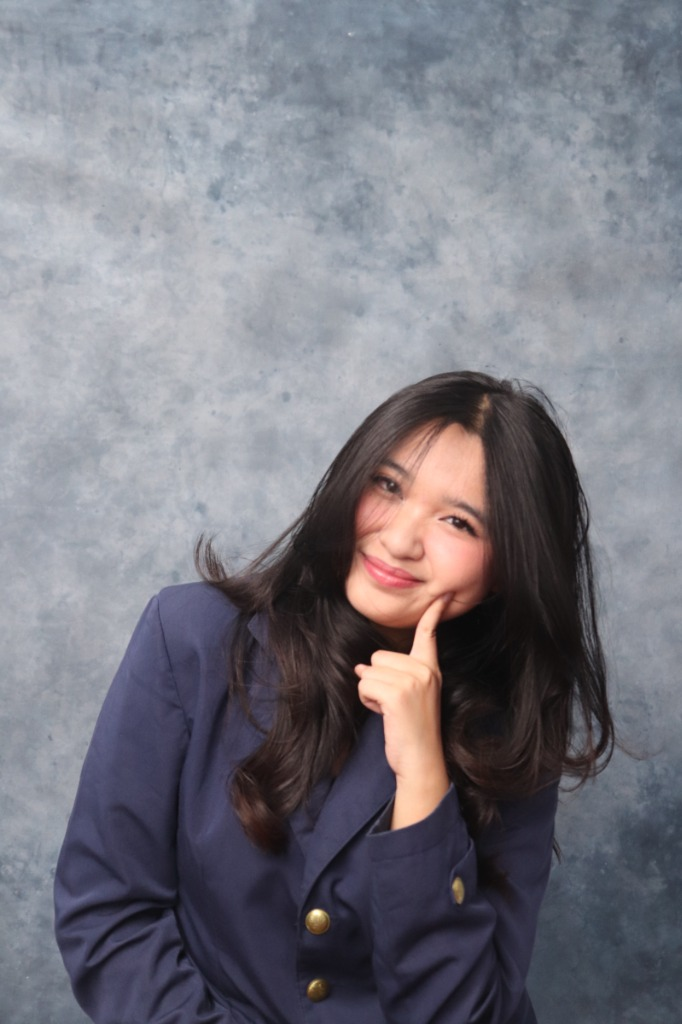
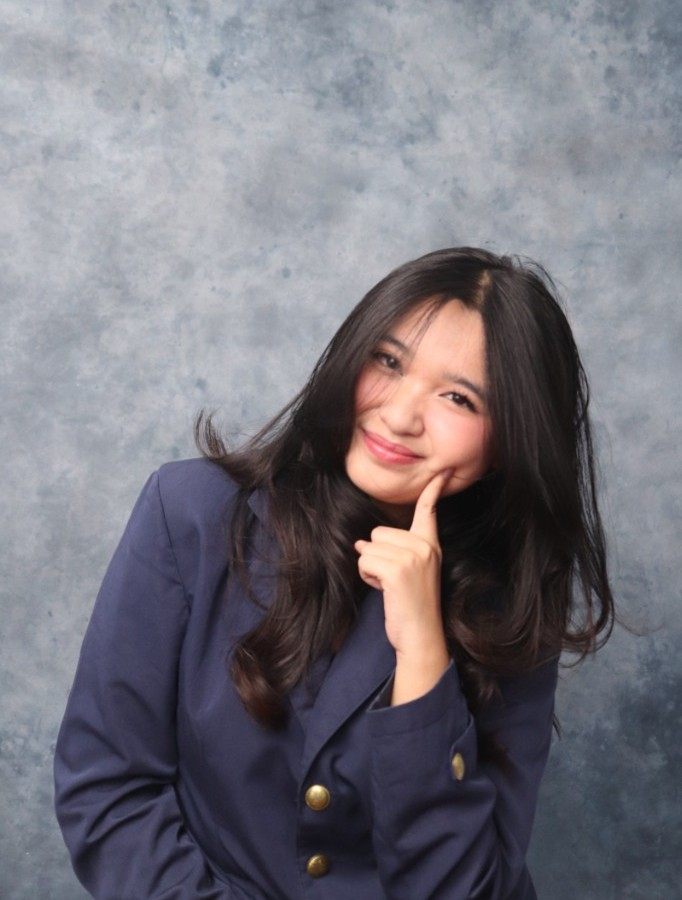
fix(profile): use user-cropped photos and center object-position

diff --git a/src/pages/Home.css b/src/pages/Home.css
@@ -183,7 +183,7 @@
   width: 100%;
   height: 100%;
   object-fit: cover;
-  object-position: center 20%;
+  object-position: center;
   display: block;
   pointer-events: none;
 }
